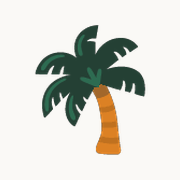
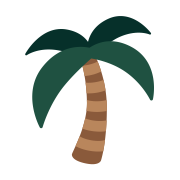
Add footer with Twemoji attribution

Changed region(s): [[0.1389, 0.0833, 0.8611, 0.9167]]

diff --git a/index.html b/index.html
@@ -258,6 +258,10 @@
         </aside>
 
       </div>
+
+      <footer class="site-footer">
+        <p>Palm icon adapted from <a href="https://github.com/jdecked/twemoji">Twemoji</a>, &copy; Twitter, Inc. and other contributors, licensed under <a href="https://creativecommons.org/licenses/by/4.0/">CC BY 4.0</a>. Recolored by me.</p>
+      </footer>
     </div>
 
 

diff --git a/style.css b/style.css
@@ -419,3 +419,16 @@ a:hover {
   color: var(--terracotta);
 }
 
+
+/* Footer */
+.site-footer {
+  margin-top: 60px;
+  padding-top: 16px;
+  border-top: 1px solid var(--sage-line);
+  font-size: 0.72rem;
+  color: var(--forest-soft);
+}
+
+.site-footer p {
+  margin: 0;
+}
